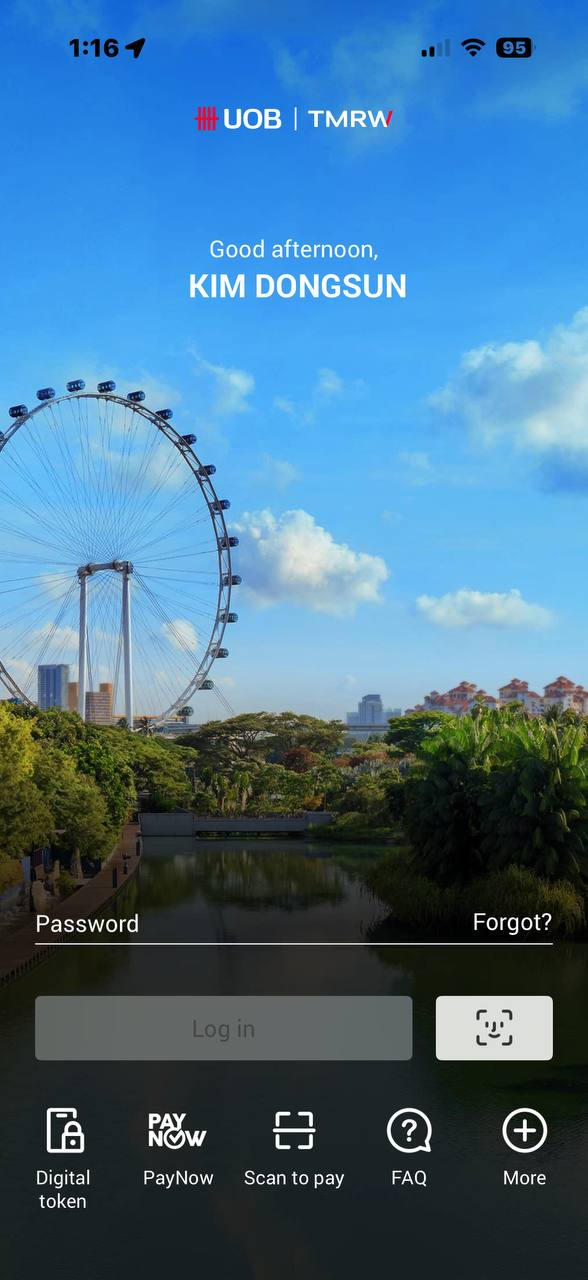
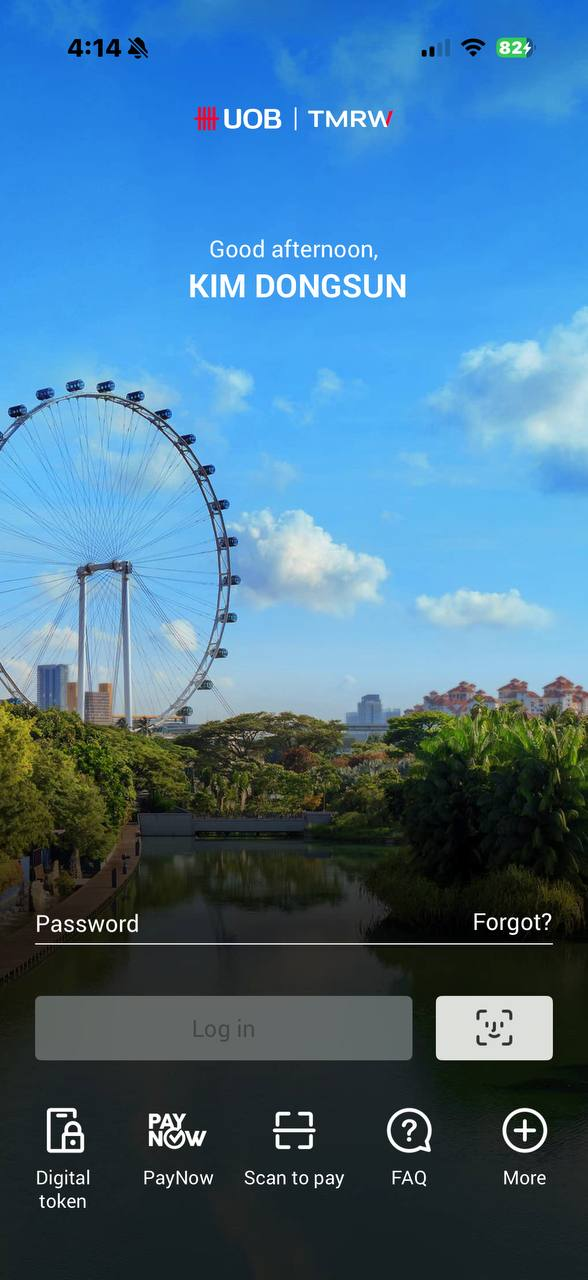
Use exact supplied full-screen references

diff --git a/index.html b/index.html
@@ -134,6 +134,21 @@
           #f2e7e2 100%);
       box-shadow: 0 18px 52px rgba(12, 21, 56, .24);
     }
+    .exact-main-shot {
+      position: absolute;
+      inset: 0;
+      z-index: 75;
+      display: block;
+      width: 588px;
+      height: 1280px;
+      object-fit: fill;
+      pointer-events: none;
+      user-select: none;
+      -webkit-user-drag: none;
+    }
+    .phone.tab-capture-active .exact-main-shot {
+      display: none;
+    }
     .content { padding: 34px 35px 136px; }
     .demo-badge {
       position: absolute;
@@ -1795,16 +1810,7 @@
       overflow: hidden;
     }
     .app-intro-frame::before {
-      content: "";
-      position: absolute;
-      left: 0;
-      right: 0;
-      top: 0;
-      z-index: 1;
-      height: 76px;
-      background:
-        linear-gradient(180deg, rgba(36, 153, 232, .98) 0%, rgba(35, 156, 237, .96) 62%, rgba(35, 156, 237, 0) 100%);
-      pointer-events: none;
+      content: none;
     }
     .app-intro img {
       width: 100%;
@@ -1853,6 +1859,7 @@
       font-weight: 900;
       letter-spacing: .08em;
       backdrop-filter: blur(10px);
+      display: none;
     }
     body.intro-hidden .app-intro {
       display: none;
@@ -2750,6 +2757,7 @@
   </script>
   <div class="stage">
   <main class="phone" aria-label="과제용 모바일 뱅킹 데모 화면">
+    <img class="exact-main-shot" src="assets/main-screen-exact-20260824.png" alt="UOB TMRW 메인 화면">
     <div class="demo-badge" data-layout-id="demoBadge">DEMO UI</div>
     <section class="content">
       <header class="status" data-layout-id="statusBar">
@@ -6063,10 +6071,6 @@
       var windowViewportHeight = window.innerHeight || 0;
       var outerViewportWidth = window.outerWidth || 0;
       var outerViewportHeight = window.outerHeight || 0;
-      var screenViewportHeight = Math.max(
-        window.screen?.height || 0,
-        window.screen?.availHeight || 0
-      );
       var viewportWidth = visualViewportWidth || layoutViewportWidth || windowViewportWidth;
       var viewportHeight = visualViewportHeight || layoutViewportHeight || windowViewportHeight;
       var appOnlyMode = document.body.classList.contains("pwa-standalone") &&
@@ -6081,19 +6085,17 @@
           var widthCandidates = [visualViewportWidth, layoutViewportWidth, windowViewportWidth, outerViewportWidth].filter(Boolean);
           var heightCandidates = [visualViewportHeight, layoutViewportHeight, windowViewportHeight, outerViewportHeight].filter(Boolean);
           viewportWidth = Math.round(Math.min.apply(Math, widthCandidates));
-          // iOS may exclude the area behind collapsing browser chrome from
-          // visualViewport.height. Fill the complete physical screen canvas so
-          // no uncovered strip remains beneath the bottom navigation.
-          viewportHeight = Math.round(isIOSDevice()
-            ? Math.max(
-                Math.max.apply(Math, heightCandidates.concat(screenViewportHeight || [])),
-                Math.ceil(viewportWidth * 1280 / 588)
-              )
-            : Math.min.apply(Math, heightCandidates));
+          // Some iPhone browser shells report a shorter outer/visual viewport
+          // even though the captured screen is taller. Never select that shorter
+          // value: it clips the source image and exposes the body below it.
+          viewportHeight = Math.round(Math.max(
+            Math.max.apply(Math, heightCandidates),
+            Math.ceil(viewportWidth * 1280 / 588)
+          ));
         }
       }
       var scaleX = appOnlyMode ? viewportWidth / 588 : Math.min(1, viewportWidth / 589);
-      var scaleY = appOnlyMode ? (viewportHeight / 1280) * 1.002 : scaleX;
+      var scaleY = appOnlyMode ? viewportHeight / 1280 : scaleX;
       var scale = appOnlyMode ? scaleX : scaleX;
       if (document.body.classList.contains("generator-docked")) {
         var workspace = document.querySelector(".generator-workspace");
